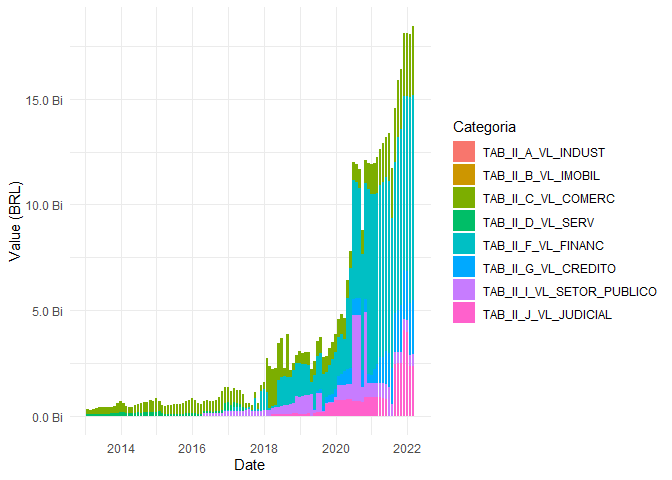
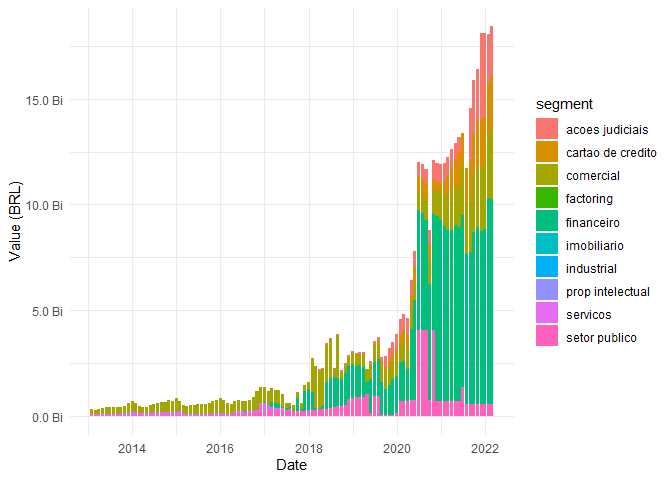
updates README

diff --git a/README.md b/README.md
@@ -111,10 +111,10 @@ FI
 1997-01-02
 </td>
 <td style="text-align:left;">
-2022-03-18
+2022-03-22
 </td>
 <td style="text-align:left;">
-159,146,013,618
+159,950,625,723
 </td>
 </tr>
 <tr>
@@ -131,10 +131,10 @@ FI
 2017-05-03
 </td>
 <td style="text-align:left;">
-2022-03-18
+2022-03-22
 </td>
 <td style="text-align:left;">
-137,605,400,390
+137,512,077,269
 </td>
 </tr>
 <tr>
@@ -151,10 +151,10 @@ FI
 2005-09-21
 </td>
 <td style="text-align:left;">
-2022-03-18
+2022-03-22
 </td>
 <td style="text-align:left;">
-122,462,409,545
+122,546,008,528
 </td>
 </tr>
 <tr>
@@ -179,26 +179,6 @@ FIP
 </tr>
 <tr>
 <td style="text-align:left;">
-00.822.055/0001-87
-</td>
-<td style="text-align:left;">
-Fundo de Renda Fixa
-</td>
-<td style="text-align:left;">
-FI
-</td>
-<td style="text-align:left;">
-1995-10-02
-</td>
-<td style="text-align:left;">
-2022-03-18
-</td>
-<td style="text-align:left;">
-95,685,797,768
-</td>
-</tr>
-<tr>
-<td style="text-align:left;">
 01.597.187/0001-15
 </td>
 <td style="text-align:left;">
@@ -211,10 +191,30 @@ FI
 1996-12-30
 </td>
 <td style="text-align:left;">
-2022-03-18
+2022-03-22
 </td>
 <td style="text-align:left;">
-95,219,727,299
+95,456,455,653
+</td>
+</tr>
+<tr>
+<td style="text-align:left;">
+00.822.055/0001-87
+</td>
+<td style="text-align:left;">
+Fundo de Renda Fixa
+</td>
+<td style="text-align:left;">
+FI
+</td>
+<td style="text-align:left;">
+1995-10-02
+</td>
+<td style="text-align:left;">
+2022-03-22
+</td>
+<td style="text-align:left;">
+94,696,631,319
 </td>
 </tr>
 <tr>
@@ -231,10 +231,10 @@ FI
 2021-09-30
 </td>
 <td style="text-align:left;">
-2022-03-18
+2022-03-22
 </td>
 <td style="text-align:left;">
-68,830,385,416
+71,498,306,598
 </td>
 </tr>
 <tr>
@@ -251,10 +251,10 @@ FI
 2021-09-30
 </td>
 <td style="text-align:left;">
-2022-03-18
+2022-03-22
 </td>
 <td style="text-align:left;">
-68,825,607,727
+71,493,468,680
 </td>
 </tr>
 <tr>
@@ -271,10 +271,10 @@ FI
 2002-07-15
 </td>
 <td style="text-align:left;">
-2022-03-18
+2022-03-22
 </td>
 <td style="text-align:left;">
-60,745,834,303
+60,351,083,083
 </td>
 </tr>
 <tr>
@@ -291,10 +291,10 @@ FI
 2005-08-24
 </td>
 <td style="text-align:left;">
-2022-03-18
+2022-03-22
 </td>
 <td style="text-align:left;">
-55,233,768,486
+55,217,215,452
 </td>
 </tr>
 </tbody>
@@ -330,6 +330,8 @@ dados_diarios(cnpj  = dados_cadastrais$cnpj,
       xlab('Date') +
       ylab('Equity (BRL)') +
       theme_minimal()
+#> [1] "Obtaining data between 2021-01-01 and 2022-03-01"
+#> [1] "Obtaining data between 2005-01-01 and 2022-03-01"
 ```
 
 <img src="man/figures/README-unnamed-chunk-2-1.png" width="100%" />
@@ -382,28 +384,17 @@ dados_fidc(cnpj  = infos$cnpj,
            end   = as.Date('2022-02-01'),
            table = 'II') %>% 
         replace(is.na(.), 0) %>% 
-        select_if(~ !is.numeric(.) || sum(.) != 0) %>% 
-        select(DT_COMPTC,
-               TAB_II_A_VL_INDUST,
-               TAB_II_B_VL_IMOBIL,
-               TAB_II_C_VL_COMERC,
-               TAB_II_D_VL_SERV,
-               TAB_II_F_VL_FINANC,
-               TAB_II_G_VL_CREDITO,
-               TAB_II_I_VL_SETOR_PUBLICO,
-               TAB_II_J_VL_JUDICIAL) %>% 
-        pivot_longer(!DT_COMPTC,
-                     names_to  = 'Categoria',
-                     values_to = 'value') %>% 
+        group_by(data, segment) %>% 
+        summarise(value = sum(value)) %>% 
         ggplot() +
-        aes(x = DT_COMPTC, y = value, fill = Categoria) +
+        aes(x = data, y = value, fill = segment) +
         geom_bar(position = 'stack', stat     = 'identity') +
         scale_y_continuous(labels = unit_format(unit = "Bi", scale = 1e-9)) +
         xlab('Date') +
         ylab('Value (BRL)') +
         theme_minimal()
-#> Warning in dados_fidc(cnpj = infos$cnpj, start = min(infos$inicio_atv), :
-#> Setting start date to 2013-01-01
+#> [1] "Obtaining data between 2019-01-01 and 2022-02-01"
+#> [1] "Obtaining data between 2013-01-01 and 2018-12-31"
 ```
 
 <img src="man/figures/README-unnamed-chunk-4-1.png" width="100%" />
